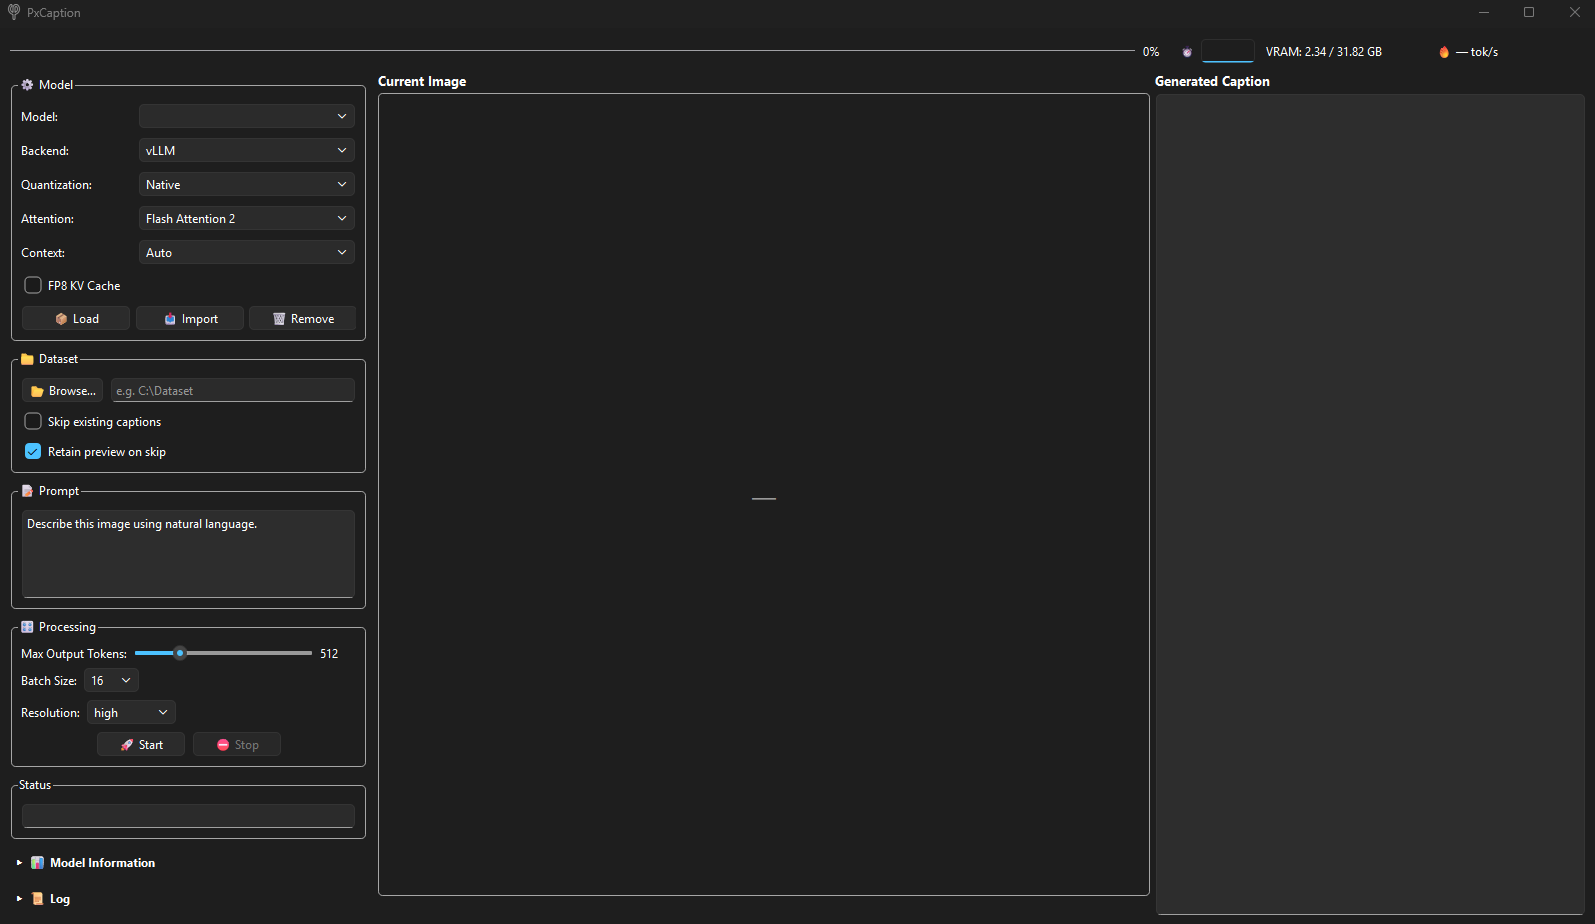
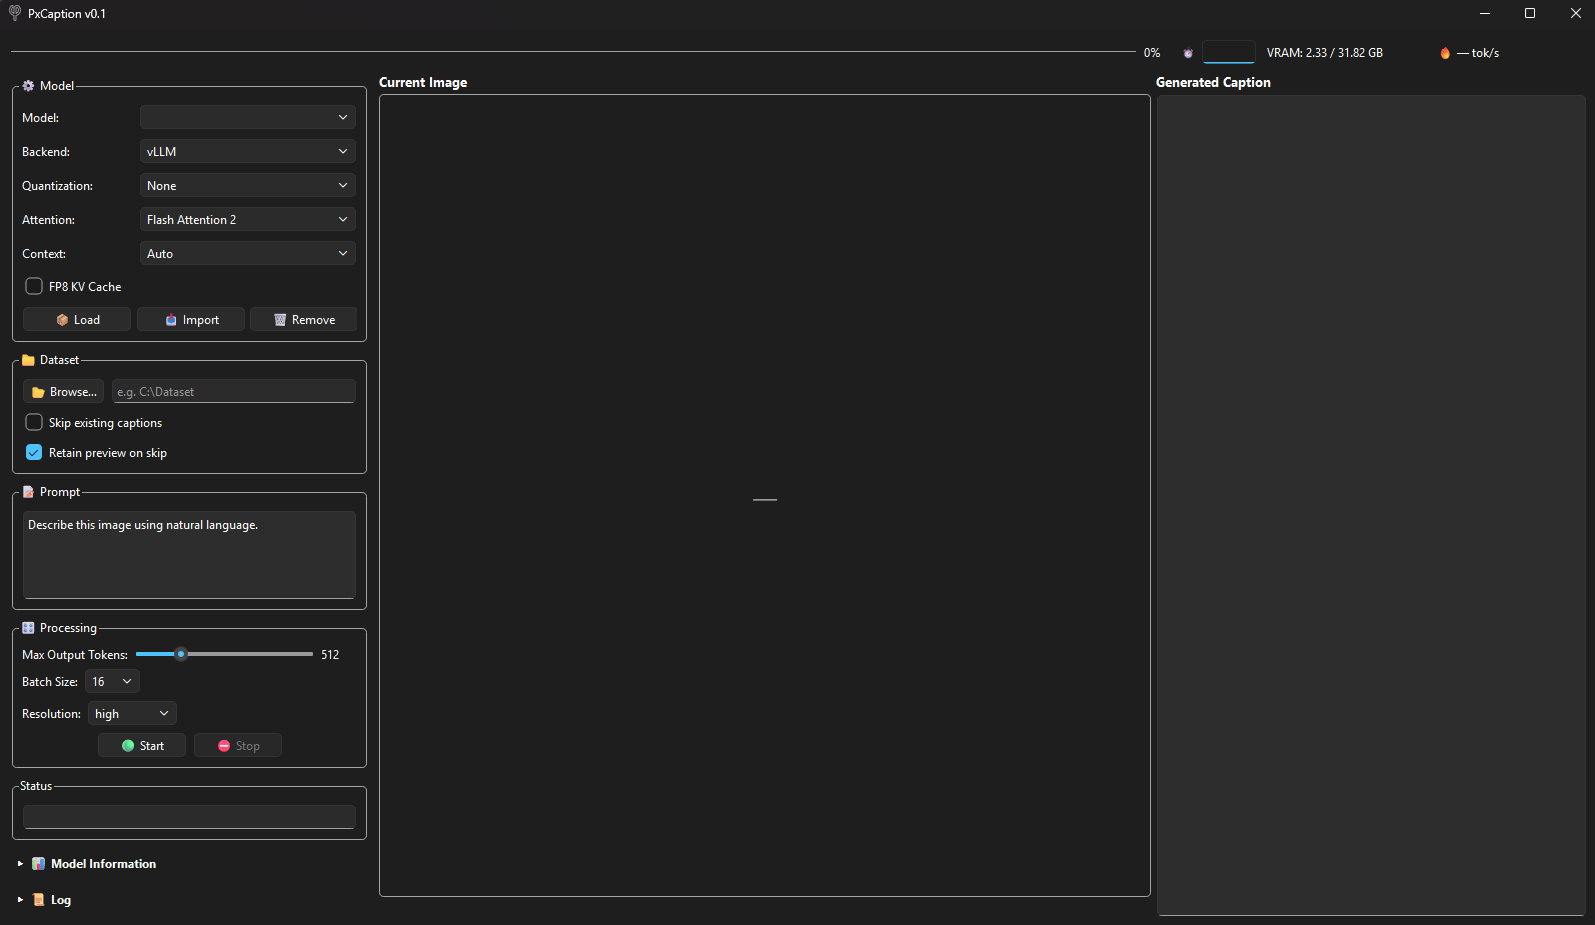
Add files via upload

diff --git a/PxCaption.py b/PxCaption.py
@@ -259,7 +259,7 @@ class ModelSession:
             raise FileNotFoundError(f"Model folder is incomplete.\n{msg}")
 
         # Any quant string ending in "(vLLM)" routes to the vLLM backend;
-        # this covers Native, AWQ, and GPTQ in one check.
+        # this covers None, AWQ, and GPTQ in one check.
         use_vllm = (quant.endswith("(vLLM)") and VLLMBackend.available())
         requested_backend = "vllm" if use_vllm else "transformers"
 
@@ -878,7 +878,7 @@ class CaptionWorker(QThread):
 class MainWindow(QMainWindow):
     def __init__(self, app: QApplication, log_queue: queue.Queue | None = None):
         super().__init__()
-        self.setWindowTitle("PxCaption")
+        self.setWindowTitle("PxCaption v0.1")
         self.setWindowIcon(QIcon(ICON_PATH))
         self.setMinimumSize(1180, 660)
         self.resize(DEFAULT_WINDOW_W, DEFAULT_WINDOW_H)
@@ -1193,7 +1193,7 @@ class MainWindow(QMainWindow):
         br_lay = QHBoxLayout(br)
         br_lay.setContentsMargins(0, 0, 0, 0)
         br_lay.setSpacing(6)
-        self.btn_start = QPushButton("\U0001f680 Start")
+        self.btn_start = QPushButton("\U0001f7e2 Start")
         self.btn_start.clicked.connect(self.on_start)
         self.btn_abort = QPushButton("\u26d4 Stop")
         self.btn_abort.setEnabled(False)
@@ -1324,7 +1324,7 @@ class MainWindow(QMainWindow):
         """Swap backend-specific controls when the backend selection changes.
 
         Quantization items change per backend:
-          vLLM           \u2192 Native / AWQ / GPTQ  (checkpoint-level, auto-detected)
+          vLLM           \u2192 None / AWQ / GPTQ  (checkpoint-level, auto-detected)
           Transformers*  \u2192 None / 8-bit / 4-bit (NF4) / 4-bit (FP4)  (runtime BnB)
         Context, FP8 KV cache, and batch size are vLLM-only.
         """
@@ -1334,8 +1334,8 @@ class MainWindow(QMainWindow):
         self.cmb_quant.blockSignals(True)
         self.cmb_quant.clear()
         if use_vllm:
-            self.cmb_quant.addItems(["Native", "AWQ", "GPTQ"])
-            self.cmb_quant.setCurrentText("Native")
+            self.cmb_quant.addItems(["None", "AWQ", "GPTQ"])
+            self.cmb_quant.setCurrentText("None")
             self.cmb_quant.setToolTip(
                 "Checkpoint quantization \u2014 auto-detected from the model\u2019s config.json.\n"
                 "AWQ and GPTQ use optimised vLLM CUDA kernels.\n"
@@ -1471,18 +1471,18 @@ class MainWindow(QMainWindow):
         q = self.cmb_quant.currentText()
         if use_vllm:
             _QUANT_MAP = {
-                "Native": "Native (vLLM)",
+                "None": "None (vLLM)",
                 "AWQ":    "AWQ (vLLM)",
                 "GPTQ":   "GPTQ (vLLM)",
             }
         else:
             _QUANT_MAP = {
-                "None":        "Native (Transformers)",
+                "None":        "None (Transformers)",
                 "8-bit":       "8-bit (Transformers)",
                 "4-bit (NF4)": "4-bit (Transformers)",
                 "4-bit (FP4)": "4-bit FP4 (Transformers)",
             }
-        quant = _QUANT_MAP.get(q, "Native (Transformers)")
+        quant = _QUANT_MAP.get(q, "None (Transformers)")
         _ATTN_MAP = {
             "Flash Attention 2": "flash_attention_2",
             "SDPA":              "sdpa",
@@ -1702,7 +1702,7 @@ def main():
     faulthandler.enable()
 
     app = QApplication(sys.argv)
-    app.setApplicationName("PxCaption")
+    app.setApplicationName("PxCaption v0.1")
 
     window = MainWindow(app)
 
